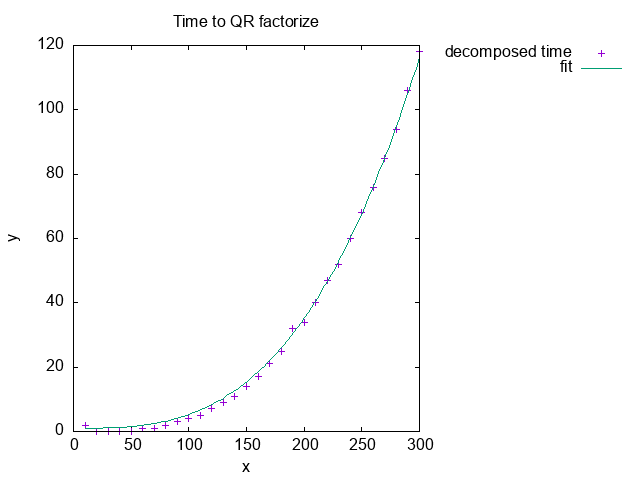
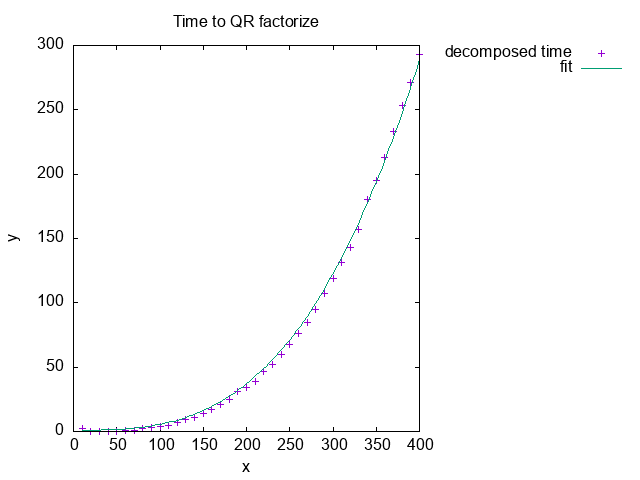
fixed fit

diff --git a/homeworks/linearequations/C/main.cs b/homeworks/linearequations/C/main.cs
@@ -6,7 +6,7 @@ public class main{
 	public static void Main(){
 		/* Generating random matrix */
 		var rand = new Random();
-		int N = 300;
+		int N = 400;
 		for(int n = 10; n <= N; n += 10){
 			matrix Q = new matrix(n,n);
 			matrix R = new matrix(n,n);
